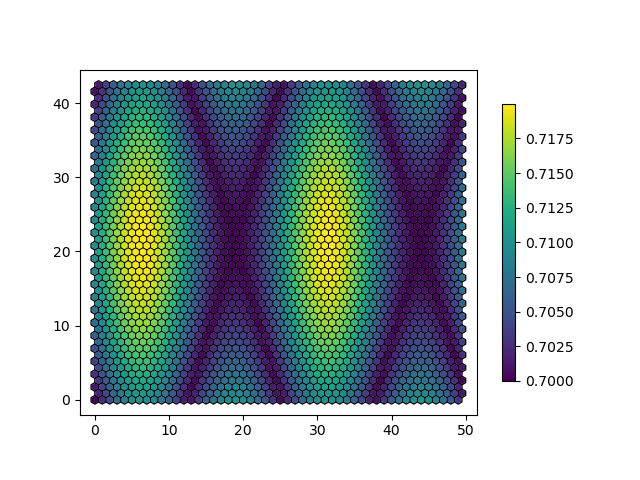
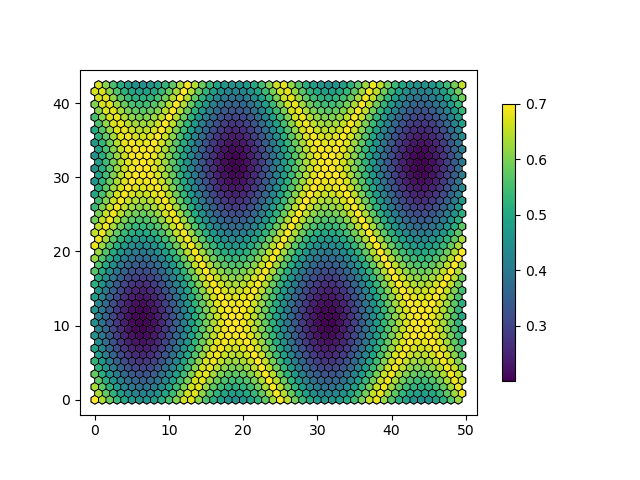
update.

diff --git a/CouplingViz.py b/CouplingViz.py
@@ -10,11 +10,11 @@ Script that visualises the coupling in the lattice.
 Uses https://github.com/alexkaz2/hexalattice/blob/master/hexalattice/hexalattice.py
 """
 
-def sinusoid2D(x, y, A1=1, A2=1, B1=0.25, B2=0.5, C1=0, C2=0, alpha = 0.01, beta = 0.7):
+def sinusoid2D(x, y, A1=1, A2=1, B1=0.25, B2=1, C1=0, C2=0, alpha = 0.25, beta = 0.7):
 #A - set max value of function
 #B - more/less peaks- stretches or compresses the peaks
 #C - phase shift everything 
-    return alpha * abs(A1 * np.sin(B1 * x + C1) + A2 * np.sin(((B2 * y)*(2*np.pi)/ index_to_xy(2499)[1]) + C2)) + beta
+    return (-1)*(alpha * abs(A1 * np.sin(B1 * x + C1) + A2 * np.sin(((B2 * y)*(2*np.pi)/ index_to_xy(2499)[1]) + C2))) + beta
 
 def gradient(x,start=0.8,end = 0.6):
     delta = (end-start)/50
@@ -40,6 +40,10 @@ sin_z = [sinusoid2D(x[i], y[i]) for i in range(len(x))]
 grad_z = [gradient(i) for i in x]
 a = ax.scatter(x,y,marker = 'h', s=17, c = sin_z)
 fig.colorbar(a,shrink=0.75)
+
+print(np.mean(sin_z))
+print(np.var(sin_z))
+print(np.std(sin_z))
 
 plt.savefig('viz_test.png')
 

diff --git a/Graph.py b/Graph.py
@@ -3,6 +3,7 @@ import math
 import matplotlib.pyplot as plt
 from matplotlib.animation import FuncAnimation
 import time
+from configuration import title
 
 def Activated_sites():
     global F
@@ -23,9 +24,9 @@ def Activated_sites():
     ax.plot(x, thing, ls = '-', label = 'Number of activated sites')
     ax.set_ylabel("Number of activated cells")
     ax.set_xlabel("Time")
-    f = open('settings.txt', 'r')
-    settings = f.read()
-    plt.savefig(settings + str('.png'))
+    #f = open('settings.txt', 'r')
+    #settings = f.read()
+    plt.savefig(title + str('.png'))
 
 
 if __name__ == "__main__":
